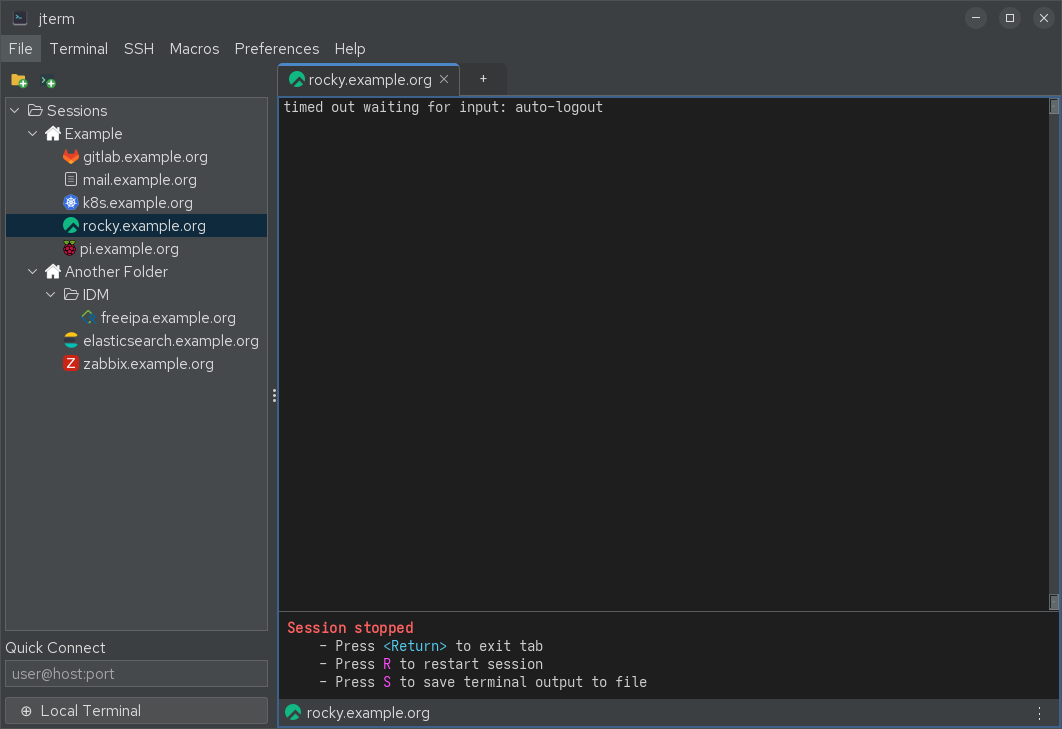
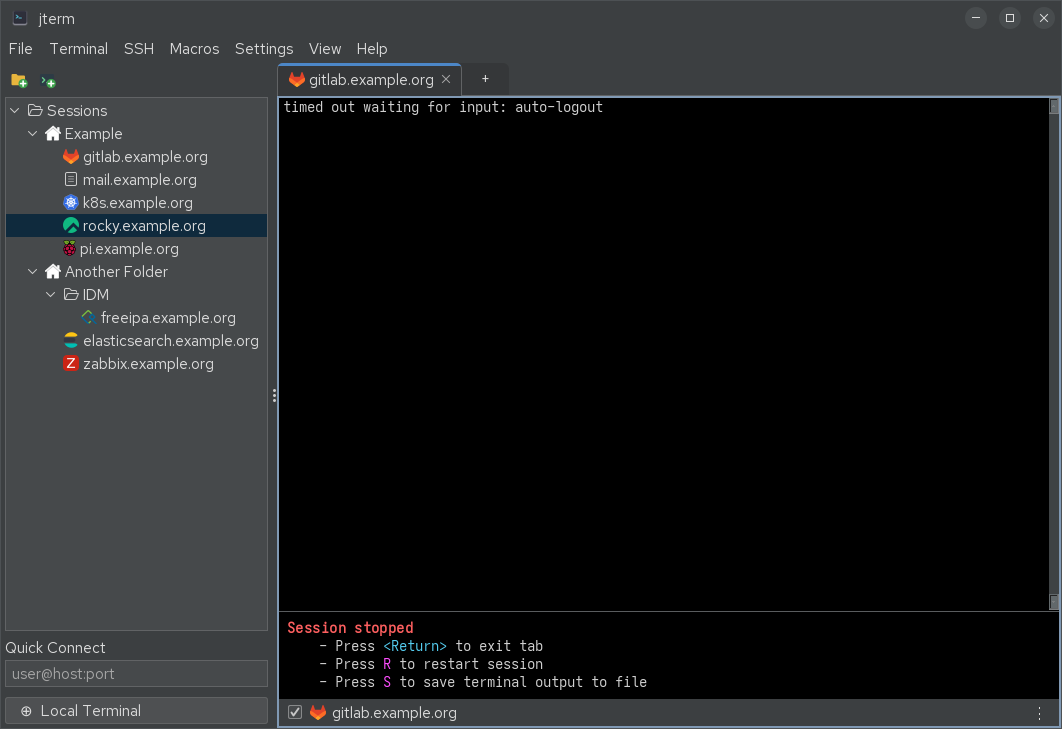
Rename the Preferences menu to Settings and move View before Help
Menu bar is now File, Terminal, SSH, Macros, Settings, View, Help. The
top-level menu label is the only rename: the item that opens the dialog
still reads "Preferences…" and the dialog keeps its title.

Move the Blink cursor toggle off the General tab onto Terminal Settings,
where it belongs. It gets its own hint because, unlike the defaults on
that tab, it is read live and affects terminals that are already open;
the tab's closing hint is now scoped to the fields it actually covers.

Make the dark theme's terminal background pure black instead of #1E1E1E.

Docs: preferences.md becomes settings.md, with the nav entry, inbound
links and the six preferences-*.png screenshots renamed to match. Menu
paths updated throughout, including four stale ones in the Java — one of
them the user-visible Quick Connect tooltip. Document Scrollback lines
and Blink cursor, which were both missing. The broadcast page claimed a
menu item that has never existed; broadcast is keyboard-only.

diff --git a/src/main/java/com/katmoda/jterm/ui/preferences/PreferencesDialog.java b/src/main/java/com/katmoda/jterm/ui/preferences/PreferencesDialog.java
@@ -63,7 +63,8 @@ import java.awt.Insets;
  *       launch and the dialog says so on OK.</li>
  *   <li><b>Terminal Settings</b> — the default terminal type, font, font size and charset applied
  *       to the local terminal and to any saved session that leaves a field unset. These take effect
- *       for newly opened panes/tabs (running JediTerm widgets bake in their font at creation).</li>
+ *       for newly opened panes/tabs (running JediTerm widgets bake in their font at creation). The
+ *       caret-blink toggle sits here too, but is read live, so it does affect open terminals.</li>
  * </ul>
  * All choices are persisted in {@link AppSettings}.
  */
@@ -86,7 +87,6 @@ public final class PreferencesDialog {
         ToggleSwitch copyOnSelect = new ToggleSwitch(settings.isCopyOnSelect());
         ToggleSwitch pasteOnRightClick = new ToggleSwitch(settings.isPasteOnRightClick());
         ToggleSwitch middleClickPaste = new ToggleSwitch(settings.isMiddleClickPaste());
-        ToggleSwitch blinkCursor = new ToggleSwitch(settings.isBlinkCursor());
         ToggleSwitch openTerminalOnStartup = new ToggleSwitch(settings.isOpenTerminalOnStartup());
         ToggleSwitch autoAcceptNewHostKeys = new ToggleSwitch(settings.isAutoAcceptNewHostKeys());
         ToggleSwitch promptPasswordOnAuthFailure =
@@ -99,7 +99,6 @@ public final class PreferencesDialog {
         addToggleRow(general, row++, "Middle-click paste (primary selection):", middleClickPaste);
         addHint(general, row++, "Linux style: selecting text copies it to the primary selection;"
                 + " middle-click pastes it.");
-        addToggleRow(general, row++, "Blink cursor:", blinkCursor);
         addToggleRow(general, row++, "Open a terminal on startup:", openTerminalOnStartup);
         addHint(general, row++, "With this off, jterm starts with no open tabs.");
         addToggleRow(general, row++, "Auto-accept new host keys:", autoAcceptNewHostKeys);
@@ -143,24 +142,44 @@ public final class PreferencesDialog {
         JSpinner scrollback = new JSpinner(new SpinnerNumberModel(
                 settings.getScrollbackLines(),
                 AppSettings.MIN_SCROLLBACK_LINES, AppSettings.MAX_SCROLLBACK_LINES, 500));
+        ToggleSwitch blinkCursor = new ToggleSwitch(settings.isBlinkCursor());
         // Same two-equal-column grid as TerminalSettingsForm so the label and field line up with
         // the Type/Font/Size/Charset rows above it.
         JPanel scrollbackRow = new JPanel(new GridLayout(0, 2, 6, 6));
         scrollbackRow.add(new JLabel("Scrollback lines:"));
         scrollbackRow.add(scrollback);
-        // Stack the form and the scrollback row at the top without stretching either vertically.
+        JPanel blinkRow = new JPanel(new GridLayout(0, 2, 6, 6));
+        blinkRow.add(new JLabel("Blink cursor:"));
+        // The switch paints a fixed-size icon, so left-align it in its own panel rather than
+        // letting the grid cell stretch its click target across half the tab.
+        JPanel blinkSwitch = new JPanel(new FlowLayout(FlowLayout.LEFT, 0, 0));
+        blinkSwitch.add(blinkCursor);
+        blinkRow.add(blinkSwitch);
+        // Unlike the defaults above it, this one is read live by JTermSettingsProvider on every
+        // repaint tick, so it needs its own hint contradicting the "newly opened" one below.
+        JLabel blinkHint = hint("Takes effect immediately, including in terminals that are"
+                + " already open.");
+        // Stack the form and the extra rows at the top without stretching them vertically.
         JPanel terminalTop = new JPanel();
         terminalTop.setLayout(new BoxLayout(terminalTop, BoxLayout.PAGE_AXIS));
         terminalDefaults.component().setAlignmentX(Component.LEFT_ALIGNMENT);
         scrollbackRow.setAlignmentX(Component.LEFT_ALIGNMENT);
+        blinkRow.setAlignmentX(Component.LEFT_ALIGNMENT);
+        blinkHint.setAlignmentX(Component.LEFT_ALIGNMENT);
         terminalTop.add(terminalDefaults.component());
         terminalTop.add(Box.createVerticalStrut(6));
         terminalTop.add(scrollbackRow);
+        terminalTop.add(Box.createVerticalStrut(6));
+        terminalTop.add(blinkRow);
+        terminalTop.add(blinkHint);
         JPanel terminal = new JPanel(new BorderLayout(0, 6));
         terminal.setBorder(BorderFactory.createEmptyBorder(8, 8, 8, 8));
         terminal.add(terminalTop, BorderLayout.NORTH);
-        JLabel defaultsHint = hint("Defaults for the local terminal and saved sessions that don't"
-                + " override them. Applies to newly opened terminals.");
+        // Scoped to the fields above the blink row on purpose — that one is read live, and its own
+        // hint sits directly above this one.
+        JLabel defaultsHint = hint("Type, font, size, charset and scrollback are defaults for the"
+                + " local terminal and saved sessions that don't override them, and apply to newly"
+                + " opened terminals.");
         terminal.add(defaultsHint, BorderLayout.SOUTH);
 
         // Highlighting: a global-default selector above the named-list editor.
@@ -242,7 +261,6 @@ public final class PreferencesDialog {
         settings.setCopyOnSelect(copyOnSelect.isSelected());
         settings.setPasteOnRightClick(pasteOnRightClick.isSelected());
         settings.setMiddleClickPaste(middleClickPaste.isSelected());
-        settings.setBlinkCursor(blinkCursor.isSelected());
         settings.setOpenTerminalOnStartup(openTerminalOnStartup.isSelected());
         settings.setAutoAcceptNewHostKeys(autoAcceptNewHostKeys.isSelected());
         settings.setPromptPasswordOnAuthFailure(promptPasswordOnAuthFailure.isSelected());
@@ -257,6 +275,7 @@ public final class PreferencesDialog {
         settings.setDefaultFontFamily(terminalDefaults.fontFamily());
         settings.setDefaultFontSize(terminalDefaults.fontSize());
         settings.setScrollbackLines((Integer) scrollback.getValue());
+        settings.setBlinkCursor(blinkCursor.isSelected());
         highlightForm.commit();
         settings.setGlobalHighlightListId(HighlightListCombo.selectedId(highlightDefault));
         settings.setDefaultUsername(defaultUser.getText());

diff --git a/src/main/java/com/katmoda/jterm/app/MainWindow.java b/src/main/java/com/katmoda/jterm/app/MainWindow.java
@@ -916,13 +916,6 @@ public final class MainWindow implements TerminalWindow, TerminalServices {
         });
         file.add(quit);
 
-        JMenu view = new JMenu("View");
-        // Seeded from the live split rather than a remembered field: buildMenuBar() is re-run
-        // wholesale when the keymap or the macro list changes.
-        sidebarMenuItem = checkMenuItem("Sessions Sidebar", TermAction.TOGGLE_SIDEBAR,
-                split == null || split.isSidebarVisible());
-        view.add(sidebarMenuItem);
-
         JMenu terminal = new JMenu("Terminal");
         terminal.add(menuItem("Open Local Shell", TermAction.OPEN_LOCAL));
         terminal.add(menuItem("Split Column", TermAction.SPLIT_COLUMN));
@@ -940,15 +933,22 @@ public final class MainWindow implements TerminalWindow, TerminalServices {
         agentKeys.addActionListener(e -> showAgentKeys());
         ssh.add(agentKeys);
 
-        JMenu preferences = new JMenu("Preferences");
-        preferences.add(menuItem("Toggle Light/Dark", TermAction.TOGGLE_THEME));
-        preferences.addSeparator();
+        JMenu settings = new JMenu("Settings");
+        settings.add(menuItem("Toggle Light/Dark", TermAction.TOGGLE_THEME));
+        settings.addSeparator();
         JMenuItem shortcuts = new JMenuItem("Keyboard Shortcuts…");
         shortcuts.addActionListener(e -> openShortcutsEditor());
-        preferences.add(shortcuts);
+        settings.add(shortcuts);
         JMenuItem prefsDialog = new JMenuItem("Preferences…");
         prefsDialog.addActionListener(e -> PreferencesDialog.show(frame));
-        preferences.add(prefsDialog);
+        settings.add(prefsDialog);
+
+        JMenu view = new JMenu("View");
+        // Seeded from the live split rather than a remembered field: buildMenuBar() is re-run
+        // wholesale when the keymap or the macro list changes.
+        sidebarMenuItem = checkMenuItem("Sessions Sidebar", TermAction.TOGGLE_SIDEBAR,
+                split == null || split.isSidebarVisible());
+        view.add(sidebarMenuItem);
 
         JMenu help = new JMenu("Help");
         JMenuItem manual = new JMenuItem("User Manual…");
@@ -963,11 +963,11 @@ public final class MainWindow implements TerminalWindow, TerminalServices {
         help.add(licenses);
 
         bar.add(file);
-        bar.add(view);
         bar.add(terminal);
         bar.add(ssh);
         bar.add(buildMacrosMenu());
-        bar.add(preferences);
+        bar.add(settings);
+        bar.add(view);
         bar.add(help);
         return bar;
     }

diff --git a/src/main/java/com/katmoda/jterm/session/SessionMigrations.java b/src/main/java/com/katmoda/jterm/session/SessionMigrations.java
@@ -54,7 +54,7 @@ final class SessionMigrations {
      * v0 → v1: terminal font size gained an "inherit the application default" state ({@code 0}).
      * Before that the session dialog's spinner could only write a concrete number, so every saved
      * session came out pinned to {@value #LEGACY_FORCED_FONT_SIZE} whether the user chose it or not
-     * — and then ignored Preferences → Terminal Settings → Font Size forever after.
+     * — and then ignored Settings → Terminal Settings → Font Size forever after.
      *
      * <p>Only that exact value is cleared: any other size can only have come from someone typing it,
      * so it stays. A size of {@value #LEGACY_FORCED_FONT_SIZE} chosen deliberately *after* this

diff --git a/src/main/java/com/katmoda/jterm/ui/theme/JTermSettingsProvider.java b/src/main/java/com/katmoda/jterm/ui/theme/JTermSettingsProvider.java
@@ -138,7 +138,7 @@ public final class JTermSettingsProvider extends DefaultSettingsProvider {
     }
 
     /**
-     * Scrollback size, in lines. User-configurable via Preferences → Terminal, stored on
+     * Scrollback size, in lines. User-configurable via Settings → Terminal Settings, stored on
      * {@link AppSettings} (default 10000, clamped to
      * [{@value AppSettings#MIN_SCROLLBACK_LINES}, {@value AppSettings#MAX_SCROLLBACK_LINES}]).
      * JediTerm calls this once when it builds each new widget's buffer, so a changed value takes

diff --git a/src/main/java/com/katmoda/jterm/ui/sidebar/SessionSidebar.java b/src/main/java/com/katmoda/jterm/ui/sidebar/SessionSidebar.java
@@ -124,7 +124,7 @@ public final class SessionSidebar extends JPanel {
     private static final String QUICK_CONNECT_HINT =
             "<html>Connect to a host without saving a session.<br>"
             + "The user name and port are optional — they default to the global user name "
-            + "(Preferences ▸ Session defaults) and port 22.</html>";
+            + "(Settings ▸ Session defaults) and port 22.</html>";
 
     private final SessionStore store;
     private final JTree tree;

diff --git a/src/main/java/com/katmoda/jterm/session/SshSessionConfig.java b/src/main/java/com/katmoda/jterm/session/SshSessionConfig.java
@@ -56,7 +56,7 @@ public final class SshSessionConfig implements SessionNode {
     private String keyPath = "";
 
     // Terminal settings. Empty/zero means "use the application default" (configured in
-    // Preferences ▸ Terminal Settings); new sessions inherit all of them by default.
+    // Settings ▸ Terminal Settings); new sessions inherit all of them by default.
     private String terminalType = "";
     private String terminalCharset = "";
     private String fontFamily = "";

diff --git a/src/main/java/com/katmoda/jterm/ui/theme/ThemeColors.java b/src/main/java/com/katmoda/jterm/ui/theme/ThemeColors.java
@@ -44,11 +44,11 @@ public record ThemeColors(
         Color[] ansi
 ) {
 
-    /** Dark preset (xterm-like on a near-black background). */
+    /** Dark preset (xterm-like on a pure-black background). */
     public static final ThemeColors DARK = new ThemeColors(
             true,
             new Color(0xD0D0D0),
-            new Color(0x1E1E1E),
+            new Color(0x000000),
             new Color(0xFFFFFF),
             new Color(0x264F78),
             new Color[]{

diff --git a/docs/settings.md b/docs/settings.md
@@ -1,12 +1,12 @@
-# Preferences
+# Settings
 
-Open **Preferences → Preferences…** for the main settings dialog. It has six tabs. (The theme
-toggle and the keyboard-shortcut editor live in the **Preferences** menu too — see
+Open **Settings → Preferences…** for the main settings dialog. It has six tabs. (The theme
+toggle and the keyboard-shortcut editor live in the **Settings** menu too — see
 [Keyboard shortcuts](shortcuts.md).)
 
 ## General
 
-![Preferences — General](img/preferences-general.png)
+![Settings — General](img/settings-general.png)
 
 | Setting | Effect |
 |---------|--------|
@@ -33,7 +33,7 @@ toggle and the keyboard-shortcut editor live in the **Preferences** menu too —
 
 ## Appearance
 
-![Preferences — Appearance](img/preferences-appearance.png)
+![Settings — Appearance](img/settings-appearance.png)
 
 How large the **application chrome** is drawn — the sessions sidebar, tab strip, menus and
 dialogs. This is the tab to reach for when jterm's own text is too small to read comfortably on
@@ -61,7 +61,7 @@ typeface or a size the preset percentages don't land on.
 
 ## Session Defaults
 
-![Preferences — Session Defaults](img/preferences-session-defaults.png)
+![Settings — Session Defaults](img/settings-session-defaults.png)
 
 Defaults inherited by folders and sessions that don't set their own (folders and individual
 sessions can still override them):
@@ -77,7 +77,7 @@ Changes apply to **newly opened** sessions.
 
 ## Terminal Settings
 
-![Preferences — Terminal Settings](img/preferences-terminal.png)
+![Settings — Terminal Settings](img/settings-terminal.png)
 
 The application-wide terminal defaults used by the local shell and by sessions that don't
 override them:
@@ -89,9 +89,22 @@ override them:
 These apply to **newly opened** terminals. Individual sessions can override them on their own
 [Terminal Settings tab](ssh-sessions.md#terminal-settings).
 
+Two more settings share the tab but are **global only** — sessions cannot override them:
+
+**Scrollback lines** is how much history each terminal keeps — the number of lines that scroll off
+the top and remain reachable by scrolling back. The default is **10,000**, and the value is clamped
+to between **100** and **100,000**. JediTerm sizes a terminal's buffer once, when the pane is
+created, so a change here applies to **newly opened** terminals; existing panes keep the size they
+started with. A larger buffer retains more history at the cost of more churn as fast output pushes
+lines through it.
+
+**Blink cursor** controls whether the text caret blinks. Unlike everything else on this tab it is
+read live, so turning it off stops the caret blinking in terminals that are *already* open, without
+a restart or a new pane.
+
 ## Highlighting
 
-![Preferences — Highlighting](img/preferences-highlighting.png)
+![Settings — Highlighting](img/settings-highlighting.png)
 
 Define named **highlight lists** — rules that colour matching text as it appears in new output
 (for example, flagging `ERROR` red or `WARN` yellow). Pick the **active list (global default)**
@@ -100,7 +113,7 @@ at the top; individual sessions can override which list they use. Highlighting a
 
 ## Colors
 
-![Preferences — Colors](img/preferences-colors.png)
+![Settings — Colors](img/settings-colors.png)
 
 Retune the terminal **palette** — what colours the terminal actually draws with. Each theme has
 its own palette; pick which one you're editing with the **Scheme** selector (**Dark** / **Light**),
@@ -124,7 +137,7 @@ stopped* overlay keeps its old colours until a new pane opens in its place.)
 
 ## Theme
 
-Switch between **light** and **dark** with **Preferences → Toggle Light/Dark** (++ctrl+shift+l++).
+Switch between **light** and **dark** with **Settings → Toggle Light/Dark** (++ctrl+shift+l++).
 On startup jterm follows your operating system's light/dark preference.
 
 !!! note "Live recolour"

diff --git a/CLAUDE.md b/CLAUDE.md
@@ -148,7 +148,7 @@ reads colors *through* `ThemeColors`, so full configurability can be added later
 touching panes. Live terminal recolor on toggle is **not** implemented (JediTerm bakes default
 fg/bg into each widget at creation); chrome recolors via FlatLaf `updateUI`.
 
-`ThemeManager` also owns the **application UI scale/font** (Preferences → Appearance;
+`ThemeManager` also owns the **application UI scale/font** (Settings → Appearance;
 `AppSettings.uiScalePercent` / `uiFontFamily` / `uiFontSize`) — the chrome only, never the
 terminal panes. It drives FlatLaf's `UIScale.setZoomFactor`, which scales fonts *and* the metrics
 FlatLaf derives through `UIScale`. Applied in `applyLaf()` (not just `install()`) so it survives a
@@ -185,7 +185,7 @@ has a stable `id` (UUID) used as the vault key.
 changed** — that stamp is the only thing making a migration one-shot, so a value the user later
 chooses that happens to match what a migration rewrites is safe. v1 exists because per-session
 terminal font size gained an "inherit" state (`0`) that the old spinner-based editor could never
-produce, leaving every saved session pinned to its seed value of 14 and deaf to Preferences →
+produce, leaving every saved session pinned to its seed value of 14 and deaf to Settings →
 Terminal Settings → Font Size; the migration clears exactly 14 and nothing else.
 
 Per-session terminal settings inherit **only** session → global, resolved by
@@ -220,7 +220,7 @@ Auth order is publickey (agent → on-disk keys) then password — MINA tries th
   only runs a method the server *offers*, a key-only server never produces a prompt — the check
   is free. `security.CredentialResolver.interactiveAuth(cfg)` implements the
   `SshConnect.InteractiveAuth` SPI with Swing prompts; `AppSettings.promptPasswordOnAuthFailure`
-  (Preferences → General, default on) gates it, read at the *call sites*
+  (Settings → General, default on) gates it, read at the *call sites*
   (`ConnectionService.interactiveAuth`) so the resolver stays headless-testable.
   Three sharp edges, all commented in place: MINA's `PASSWORD_PROMPTS` cap is *per method*, so
   `JtermUserInteraction` imposes its own 3-per-hop total; the 30 s `AUTH_TIMEOUT` would kill a

diff --git a/docs/SCREENSHOTS.md b/docs/SCREENSHOTS.md
@@ -40,10 +40,10 @@ window size (~1200×800) so text stays legible.
 | `macro-manager.png` | The Manage Macros… dialog listing macros | `macros.md` |
 | `macro-edit.png` | The macro edit dialog showing Name, Hotkey, and steps | `macros.md` |
 | `shortcuts-dialog.png` | The Keyboard Shortcuts editor | `shortcuts.md` |
-| `preferences-general.png` | Preferences dialog, **General** tab | `preferences.md` |
-| `preferences-appearance.png` | Preferences dialog, **Appearance** tab (UI scale, UI font, font-size override) | `preferences.md` |
-| `preferences-session-defaults.png` | Preferences dialog, **Session Defaults** tab | `preferences.md` |
-| `preferences-terminal.png` | Preferences dialog, **Terminal Settings** tab | `preferences.md` |
-| `preferences-highlighting.png` | Preferences dialog, **Highlighting** tab (a list with several rules and colours) | `preferences.md` |
-| `preferences-colors.png` | Preferences dialog, **Colors** tab (Dark scheme, ANSI grid visible) | `preferences.md` |
+| `settings-general.png` | Preferences dialog, **General** tab | `settings.md` |
+| `settings-appearance.png` | Preferences dialog, **Appearance** tab (UI scale, UI font, font-size override) | `settings.md` |
+| `settings-session-defaults.png` | Preferences dialog, **Session Defaults** tab | `settings.md` |
+| `settings-terminal.png` | Preferences dialog, **Terminal Settings** tab | `settings.md` |
+| `settings-highlighting.png` | Preferences dialog, **Highlighting** tab (a list with several rules and colours) | `settings.md` |
+| `settings-colors.png` | Preferences dialog, **Colors** tab (Dark scheme, ANSI grid visible) | `settings.md` |
 | `session-stopped-screen.png` | A pane showing the "session stopped" reconnect/restart screen | `reconnect-and-output.md` |

diff --git a/docs/ssh-auth-and-vault.md b/docs/ssh-auth-and-vault.md
@@ -43,7 +43,7 @@ never stored.
     `PasswordAuthentication no`, there is nothing to prompt for and the connect fails as before —
     you won't be asked for a password that could never work.
 
-To turn the fallback off entirely, clear **Preferences → General → Ask for a password if key auth
+To turn the fallback off entirely, clear **Settings → General → Ask for a password if key auth
 fails**. Connects then fail immediately when key auth is rejected.
 
 ### Two-factor and other challenges
@@ -92,7 +92,7 @@ You can also save a password without opening the session dialog at all: tick **R
 password** on the connect-time prompt described [above](#if-key-authentication-fails).
 
 You can also set **default** passwords/passphrases at the folder or global level — see
-[Preferences → Session Defaults](preferences.md).
+[Settings → Session Defaults](settings.md).
 
 ### OS keyring (remembering the master password)
 
@@ -120,5 +120,5 @@ jterm checks host keys against `~/.ssh/known_hosts` using **trust-on-first-use (
 
 ![Host key confirmation prompt](img/host-key-prompt.png)
 
-To trust first-seen hosts without prompting, enable **Preferences → General → Auto-accept new
+To trust first-seen hosts without prompting, enable **Settings → General → Auto-accept new
 host keys**. You're still warned about *changed* keys.

diff --git a/docs/troubleshooting.md b/docs/troubleshooting.md
@@ -2,10 +2,10 @@
 
 ## Menus and the sidebar are tiny on a high-resolution display
 
-Raise **UI scale** on the [Appearance tab](preferences.md#appearance) of Preferences — it enlarges
+Raise **UI scale** on the [Appearance tab](settings.md#appearance) of the settings dialog — it enlarges
 the sidebar, tabs, menus and dialogs together, and takes effect after you restart jterm. If only
 the *terminal* text is too small, that's a separate setting: see
-[Terminal Settings](preferences.md#terminal-settings), or press ++ctrl+num-plus++ to enlarge the
+[Terminal Settings](settings.md#terminal-settings), or press ++ctrl+num-plus++ to enlarge the
 focused pane straight away.
 
 ## SSH agent not found / key auth fails
@@ -34,7 +34,7 @@ cancelled. Things to check, in order:
 - Does the server allow password auth at all? If `PasswordAuthentication no` and
   `KbdInteractiveAuthentication no` are set in `sshd_config`, jterm never offers you a prompt and
   key auth is the only way in.
-- Was the fallback turned off? Check **Preferences → General → Ask for a password if key auth
+- Was the fallback turned off? Check **Settings → General → Ask for a password if key auth
   fails**.
 - For a **jump host** chain, the message names the hop that failed — an early hop failing means
   the target was never reached.
